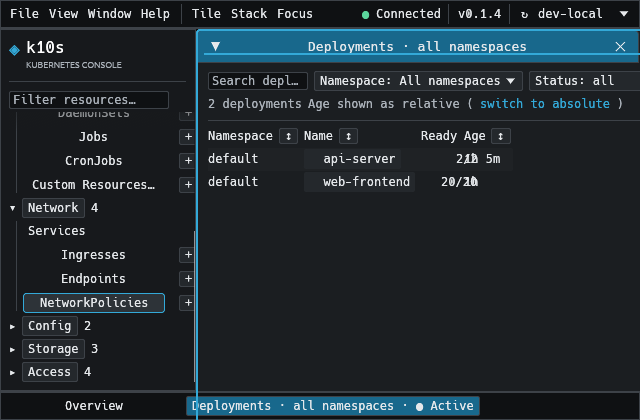
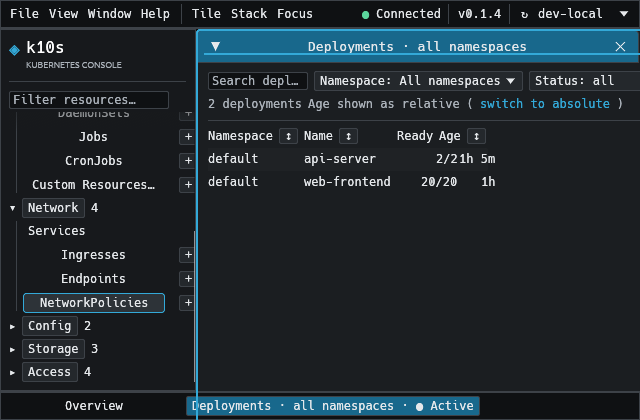
List table: full-row selection and reference column layout per #193 (#195)
* Resource table: full-row selection, tone glyphs, reference column widths

Implement the Resource table sub-item of issue #193 against the reference
design (docs/designs/10-list-detail-redesign.html):

- Full-row selection: a full-width fill plus a 3px left accent replace the
  per-cell highlight and the disclosure triangle prefix. Detail opens in the
  detail pane, not via row expansion.
- Numeric Ready/Age cells align right; Age (created) is treated as numeric.
- Status is visually distinct from Ready via a tone glyph and color
  (healthy/warning/danger), while the accessible label stays the clean status
  text so semantic queries and screen readers never see the shape.
- Ready count turns warning-yellow when ready is below its desired target.
- Column widths match the reference: wider Namespace, larger Image, tighter
  Ready/Status/Age, with a flex Name.

Added focused tests for the selected-row accessibility state (no disclosure
marker) and the status tone glyph, and regenerated the affected snapshots.

* Refresh web visual baselines for redesigned list table

The full-row selection styling, tone glyphs, and reference column widths
change the rendered list pixels. Regenerate the two Linux Playwright
baselines (compact-workspace, resource-taxonomy) in an ubuntu-24.04
container matching CI, plus the matching issue-172 docs screenshot. The
full browser E2E layout suite passes against them.

Changed region(s): [[0.4688, 0.3095, 0.8125, 0.4643]]

diff --git a/crates/k10s-ui/src/ui/resource_table.rs b/crates/k10s-ui/src/ui/resource_table.rs
@@ -15,19 +15,22 @@ use crate::workspace::{AgeMode, SortSpec, WindowId, WorkloadKind};
 
 use super::responsive_table::ColumnSpec;
 
+// Reference column hierarchy: fixed widths for the scannable columns and a
+// flex Name, so the remaining width goes to Image (the column people reach
+// for when checking which revision is still running).
 const DEPLOYMENT_COLUMNS: [ColumnSpec; 6] = [
-    ColumnSpec::required("namespace", 112.0),
+    ColumnSpec::required("namespace", 150.0),
     ColumnSpec::elastic("name", 180.0),
-    ColumnSpec::required("ready", 56.0),
-    ColumnSpec::hideable("status", 112.0, 1),
-    ColumnSpec::hideable("image", 180.0, 0),
+    ColumnSpec::required("ready", 60.0),
+    ColumnSpec::hideable("status", 104.0, 1),
+    ColumnSpec::hideable("image", 230.0, 0),
     ColumnSpec::required("created", 56.0),
 ];
 const POD_COLUMNS: [ColumnSpec; 7] = [
-    ColumnSpec::required("namespace", 112.0),
+    ColumnSpec::required("namespace", 150.0),
     ColumnSpec::elastic("name", 180.0),
-    ColumnSpec::required("ready", 56.0),
-    ColumnSpec::required("status", 112.0),
+    ColumnSpec::required("ready", 60.0),
+    ColumnSpec::required("status", 104.0),
     ColumnSpec::hideable("restarts", 64.0, 1),
     ColumnSpec::hideable("node", 120.0, 0),
     ColumnSpec::required("created", 56.0),
@@ -228,33 +231,38 @@ where
                     for index in range.start.max(header_rows)..range.end {
                         let row = &rows[index - header_rows];
                         let selected = is_selected(row);
-                        let name = if selected {
-                            format!("▶ {}", row.identity.name)
-                        } else {
-                            format!("  {}", row.identity.name)
-                        };
+                        // The whole row carries the selection: a full-width
+                        // fill plus a 3px left accent, painted before the
+                        // cells so they render on top. No per-cell highlight
+                        // and no disclosure marker.
+                        let row_min = ui.cursor().min;
+                        if selected {
+                            let row_rect = egui::Rect::from_min_max(
+                                row_min,
+                                row_min + egui::vec2(table_width, row_height),
+                            );
+                            let painter = ui.painter();
+                            painter.rect_filled(row_rect, 0.0, super::theme::SELECTED_ROW);
+                            painter.rect_filled(
+                                egui::Rect::from_min_max(
+                                    egui::pos2(row_min.x, row_min.y),
+                                    egui::pos2(row_min.x + 3.0, row_min.y + row_height),
+                                ),
+                                0.0,
+                                super::theme::ACCENT,
+                            );
+                        }
                         for column in &columns.visible {
-                            let numeric = matches!(column.key, "ready" | "restarts");
+                            let numeric = matches!(column.key, "ready" | "restarts" | "created");
                             super::responsive_table::sized_cell(ui, column.width, numeric, |ui| {
                                 match column.key {
                                     "namespace" => {
                                         ui.label(row.identity.namespace.as_deref().unwrap_or("—"));
                                     }
                                     "name" => {
-                                        let name_button =
-                                            ui.add(
-                                                egui::Button::new(if selected {
-                                                    egui::RichText::new(&name).strong()
-                                                } else {
-                                                    egui::RichText::new(&name)
-                                                })
-                                                .selected(selected)
-                                                .stroke(if selected {
-                                                    egui::Stroke::new(1.5, crate::ui::theme::ACCENT)
-                                                } else {
-                                                    egui::Stroke::NONE
-                                                }),
-                                            );
+                                        let name_button = ui.add(
+                                            egui::Button::new(&row.identity.name).frame(false),
+                                        );
                                         let label = super::responsive_table::row_action_label(
                                             "resource",
                                             &row.identity.name,
@@ -285,10 +293,10 @@ where
                                         });
                                     }
                                     "status" => {
-                                        ui.label(resource_status(row));
+                                        status_label(ui, resource_status(row).as_ref());
                                     }
                                     "ready" => {
-                                        right_label(ui, resource_ready(row));
+                                        ready_label(ui, row);
                                     }
                                     "image" => {
                                         super::responsive_table::elided_label(
@@ -362,13 +370,6 @@ pub(super) fn resource_status(row: &ResourceListRow) -> Cow<'_, str> {
         _ => Cow::Borrowed(&row.summary),
     }
 }
-fn resource_ready(row: &ResourceListRow) -> String {
-    match row.projection.as_ref() {
-        Some(ResourceProjection::Deployment(p)) => ready_pair(p.ready_replicas, p.desired_replicas),
-        Some(ResourceProjection::Pod(p)) => ready_pair(p.ready_containers, p.total_containers),
-        _ => "—".into(),
-    }
-}
 fn ready_pair(ready: Option<u32>, desired: Option<u32>) -> String {
     match (ready, desired) {
         (Some(ready), Some(desired)) => format!("{ready}/{desired}"),
@@ -404,6 +405,100 @@ fn resource_node(row: &ResourceListRow) -> String {
 fn right_label(ui: &mut egui::Ui, value: String) {
     ui.with_layout(egui::Layout::right_to_left(egui::Align::Center), |ui| {
         ui.label(value);
+    });
+}
+
+/// A shape and a color both carry the status signal so a wall of identical
+/// ready counts stays scannable; danger beats warning beats healthy.
+fn status_tone(status: &str) -> (char, egui::Color32) {
+    let lowered = status.to_lowercase();
+    if lowered.contains("fail")
+        || lowered.contains("error")
+        || lowered.contains("crashloop")
+        || lowered.contains("backoff")
+        || lowered.contains("terminating")
+    {
+        ('\u{2715}', super::theme::DANGER)
+    } else if lowered.contains("progress")
+        || lowered.contains("pending")
+        || lowered.contains("partial")
+        || is_degraded_ready_status(&lowered)
+    {
+        ('\u{25b2}', super::theme::WARNING)
+    } else if lowered.contains("ready")
+        || lowered.contains("available")
+        || lowered.contains("running")
+        || lowered.contains("succeeded")
+        || lowered.contains("completed")
+    {
+        ('\u{25cf}', super::theme::HEALTHY)
+    } else {
+        ('\u{25cf}', super::theme::MUTED_TEXT)
+    }
+}
+
+/// A "1/2 ready" style summary whose ready count is below its target.
+fn is_degraded_ready_status(lowered: &str) -> bool {
+    if let Some(stem) = lowered
+        .find("ready")
+        .or_else(|| lowered.find("container"))
+        .or_else(|| lowered.find("pod"))
+    {
+        let head: Vec<char> = lowered[..stem].chars().collect();
+        let mut ready: Option<u32> = None;
+        let mut desired: Option<u32> = None;
+        for ch in head.iter().rev() {
+            if ch.is_ascii_digit() {
+                let digit = ch.to_digit(10).unwrap_or(0);
+                ready = Some(digit + ready.map(|r| r * 10).unwrap_or(0));
+            } else if *ch == '/' {
+                desired = ready.take();
+            } else if ch.is_whitespace() || *ch == '\u{00b7}' {
+                break;
+            }
+        }
+        if let (Some(ready), Some(desired)) = (ready, desired) {
+            return ready < desired;
+        }
+    }
+    false
+}
+
+/// Render the status cell with its tone glyph and color, keeping the full
+/// text accessible and on the hover tooltip.
+fn status_label(ui: &mut egui::Ui, status: &str) {
+    let (glyph, color) = status_tone(status);
+    let text = format!("{} {}", glyph, status);
+    let response = ui.colored_label(color, text);
+    // The glyph is purely visual; the accessible label stays the clean status
+    // text so semantic queries and screen readers never see the shape.
+    response.widget_info(|| WidgetInfo::labeled(WidgetType::Label, true, status.to_owned()));
+    response.on_hover_text(status);
+}
+
+/// Render the ready/desired count, turning yellow when ready is below its
+/// target so shortfalls read at a glance.
+fn ready_label(ui: &mut egui::Ui, row: &ResourceListRow) {
+    let (text, degraded) = match row.projection.as_ref() {
+        Some(ResourceProjection::Deployment(p)) => {
+            let degraded =
+                matches!((p.ready_replicas, p.desired_replicas), (Some(r), Some(d)) if r < d);
+            (ready_pair(p.ready_replicas, p.desired_replicas), degraded)
+        }
+        Some(ResourceProjection::Pod(p)) => {
+            let degraded =
+                matches!((p.ready_containers, p.total_containers), (Some(r), Some(t)) if r < t);
+            (ready_pair(p.ready_containers, p.total_containers), degraded)
+        }
+        _ => ("\u{2014}".into(), false),
+    };
+    let color = if degraded {
+        super::theme::WARNING
+    } else {
+        super::theme::TEXT
+    };
+    ui.with_layout(egui::Layout::right_to_left(egui::Align::Center), |ui| {
+        ui.colored_label(color, text);
     });
 }
 #[cfg(test)]

diff --git a/crates/k10s-ui/src/app.rs b/crates/k10s-ui/src/app.rs
@@ -9502,6 +9502,69 @@ mod tests {
         list_window.get_by_label("Select resource beta");
         list_window.get_by_label("2 deployments");
     }
+
+    #[test]
+    fn deployment_selected_row_reports_selection_without_disclosure_marker() {
+        let (mut app, window) = deployment_list_app();
+        app.web_select_resource(window, deployment_identity("alpha"));
+        let harness = toolbar_test_harness(app);
+        let list_window = harness.get_by_role_and_label(
+            egui::accesskit::Role::Window,
+            "Deployments \u{00b7} all namespaces",
+        );
+
+        // The selected row keeps its clean action affordance and reports the
+        // selected state through the accessibility tree (the full-row fill is
+        // the visual cue for it).
+        let selected_button = list_window.get_by_role_and_label(
+            egui::accesskit::Role::Button,
+            "Clear selection for resource alpha",
+        );
+        assert_eq!(
+            selected_button.accesskit_node().toggled(),
+            Some(egui::accesskit::Toggled::True),
+            "the selected row button is flagged toggled-on for assistive tech"
+        );
+
+        // No row in the list carries a disclosure triangle: the triangle prefix
+        // was removed from the name cell, and detail opens in the detail pane.
+        let triangles: Vec<String> = list_window
+            .children_recursive()
+            .filter_map(|node| node.accesskit_node().value())
+            .filter(|value| value.contains('\u{25b6}'))
+            .collect();
+        assert!(
+            triangles.is_empty(),
+            "no row carries a disclosure triangle, got {triangles:?}"
+        );
+    }
+
+    #[test]
+    fn deployment_status_renders_tone_glyph_with_clean_access_label() {
+        let (app, _) = deployment_list_app();
+        let harness = toolbar_test_harness(app);
+        let list_window = harness.get_by_role_and_label(
+            egui::accesskit::Role::Window,
+            "Deployments \u{00b7} all namespaces",
+        );
+
+        // The status cell paints a tone glyph (\u{25cf} for a Ready row) but the
+        // accessible text stays the clean status value.
+        let status_labels: Vec<Option<String>> = list_window
+            .children_recursive()
+            .filter(|node| node.accesskit_node().value().as_deref() == Some("Ready"))
+            .map(|node| {
+                node.children()
+                    .find_map(|child| child.accesskit_node().value())
+            })
+            .collect();
+        assert!(
+            status_labels
+                .iter()
+                .any(|run| run.as_deref() == Some("\u{25cf} Ready")),
+            "a Ready status renders its healthy tone glyph, got {status_labels:?}"
+        );
+    }
 }
 
 #[cfg(test)]
